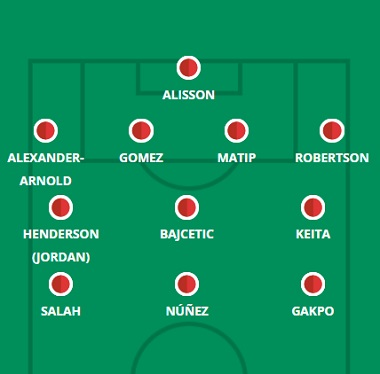
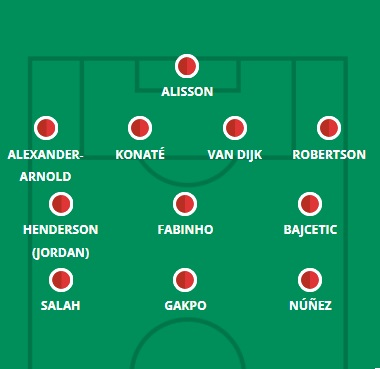
5-20

diff --git a/leeds.html b/leeds.html
@@ -63,15 +63,15 @@
     <hgroup>
         <h1> Provável Escalação</h1>
         <h2 class="direita"> por FabioVascão </h2>
-        <h3 class="direita"> Atualizado em 10/Fevereiro/2023 </h3>
+        <h3 class="direita"> Atualizado em 03/Março/2023 </h3>
     </hgroup>
 
     <div class="selecao"><p><b><img src="images/logos/leeds.png" width="100rem" height="100rem"/> Leeds</b></p></div>
        
     <div class="escalacao">
         <div class="topo">
-            <h2 class="titulo">Ultimas Notícias</h2> <h4><p> Pascal Struijk (suspensão) se juntou a Rodrigo Moreno (tornozelo) e Stuart Dallas (joelho) nas laterais, enquanto os comentários do gerente interino Michael Skubala sobre as "lesões de longa duração" permanecerem as mesmas sugerem Archie Gray (tornozelo) e Adam Forshaw (quadril ) permanecem fora. Liam Cooper (knock) e Marc Roca (knock) serão avaliados depois de perder o jogo reverso contra o Manchester United, enquanto Luis Sinisterra (músculo) não está muito ferido depois de sair mancando do jogo no meio da semana, mas ainda é uma dúvida significativa para domingo . Junior Firpo impressionou como substituto em Old Trafford e será necessário como lateral-esquerdo se Cooper se juntar a Struijk nas laterais (o versátil Max Wober continua no meio-campo), enquanto Brenden Aaronson e Crysencio Summerville lutarão para substituir Sinisterra fora de largura; foi o primeiro que saiu do banco para substituir o colombiano na quarta-feira. Há uma chance de Georginio Rutter conseguir uma saída no meio se Patrick Bamford for considerado muito arriscado para começar dois jogos em quatro dias, embora Bamford tenha pelo menos conseguido respirar depois de uma hora no derby dos Roses. Sam Greenwood ou Roca (se adequado) também podem entrar para fazer um meio-campo de três homens, caso Skubala queira proceder com um pouco mais de cautela desta vez.</p></h4><br>
-            <h4><strong>Dúvidas:</strong> Dallas, Struijk, Gray (Archie), Rodrigo, Cooper, Perkins, Roca, Sinisterra e Forshaw.</h4>
+            <h2 class="titulo">Ultimas Notícias</h2> <h4><p> O novo chefe do Leeds, Javi Gracia, mais uma vez rebateu uma pergunta sobre a situação atual da lesão em sua coletiva de imprensa pré-jogo, então estamos no escuro quanto ao condicionamento físico mais recente do clube. Rodrigo Moreno (tornozelo), Adam Forshaw (quadril), Stuart Dallas (joelho) e Luis Sinisterra (músculo) estão fora de casa, enquanto Pascal Struijk era esperado de volta há duas semanas após observar o protocolo de concussão, mas reclamou de “nebulosidade” em uma sessão de treinamento e não foi visto desde então. Liam Cooper e Max Wober também estiveram ausentes da equipe da rodada na eliminatória da copa no meio da semana contra o Fulham, embora possa ser que Wober tenha descansado por precaução para evitar o agravamento de uma lesão no ombro que o deixou em dúvida para a 25ª rodada. Vimos um 4-2-3-1 de Gracia em sua primeira partida no comando contra o Southampton no fim de semana passado, enquanto a viagem para o Fulham na terça-feira testemunhou uma mudança para um 4-4-3. Existe a possibilidade de não vermos nenhuma dessas configurações, no entanto, com Gracia - reconhecidamente ao responder a uma pergunta de um repórter - dizendo que jogar com dois atacantes no topo era uma "opção real". Foi a exibição encorajadora de Georginio Rutter em Craven Cottage que gerou a pergunta do jornalista, com a contratação de janeiro e Patrick Bamford até agora tendo que dividir o tempo de jogo em vez de começar lado a lado. Gracia disse que Rutter é uma opção quando há um sistema de um atacante, mas admitiu que viu a posição ideal do atacante francês como um "segundo atacante". Marc Roca foi trazido para a casa das máquinas no meio da semana, mas provavelmente seria ele quem abriria caminho para acomodar uma configuração mais ofensiva, com Crysencio Summerville e Brenden Aaronson também pressionando pela inclusão.</p></h4><br>
+            <h4><strong>Dúvidas:</strong> Dallas, Struijk, Rodrigo, Sinisterra e Forshaw.</h4>
         </div>
         <aside>
             <figure>

diff --git a/united.html b/united.html
@@ -63,15 +63,15 @@
     <hgroup>
         <h1> Provável Escalação</h1>
         <h2 class="direita"> por FabioVascão </h2>
-        <h3 class="direita"> Atualizado em 10/Fevereiro/2023 </h3>
+        <h3 class="direita"> Atualizado em 03/Março/2023 </h3>
     </hgroup>
 
     <div class="selecao"><p><b><img src="images/logos/manchester-united.png" width="100rem" height="100rem"/> Manchester United</b></p></div>
        
     <div class="escalacao">
         <div class="topo">
-            <h2 class="titulo">Ultimas Notícias</h2> <h4><p> Não temos certeza se teremos notícias de Erik ten Hag antes do prazo final da Gameweek 23, com seu tempo anunciado na lista de coletiva de imprensa pré-jogo passando sem nenhuma reportagem. Sabemos que Christian Eriksen (tornozelo), Donny van de Beek (joelho) e Casemiro (suspenso) permanecem de fora, embora pareça improvável que Scott McTominay (problema não especificado) se recupere para a rápida partida de volta em Elland Road. A disponibilidade de Anthony Martial (quadril) e Antony (perna) para a Rodada 23 também é desconhecida depois que ten Hag excluiu a dupla do confronto no meio da semana contra o Leeds, uma partida que Aaron Wan-Bissaka perdeu devido a “doença”. O United ficará sem corpos se nenhum desses contingentes retornar, mas dez Hag ainda tem opções disponíveis para ele se quiser agitar as coisas, com sua reformulação tática no meio da semana de mover Marcus Rashford para o topo às custas do ineficaz Wout Weghorst certamente algo na frente de sua mente. Jadon Sancho está suficientemente impressionado para sugerir que voltará ao XI titular no domingo, deixando Alejandro Garnacho e Facundo Pellistri brigando pelo outro meio-campo se Antony ou Martial não estiverem disponíveis. O mais defensivo Wan-Bissaka também pode retornar no lugar de Diogo Dalot se se recuperar de uma doença, com Wilfried Gnonto provando ser um punhado no jogo reverso de quarta-feira. Vimos o mal do Jekyll-e-Hyde Fred em Old Trafford, mas exceto por empurrar Victor Lindelof para o meio-campo (algo que Ten Hag discutiu anteriormente e como aconteceu nos estágios finais no meio da semana), não há muita competição para o brasileiro atualmente.</p></h4><br>
-            <h4><strong>Dúvidas:</strong> Van de Beek, Eriksen, Antony, Martial, Wan-Bissaka, Casemiro e McTominay.</h4>
+            <h2 class="titulo">Ultimas Notícias</h2> <h4><p> Christian Eriksen (tornozelo) e Donny van de Beek (joelho) permanecem de fora, enquanto o jogo contra o Liverpool pode acontecer muito cedo para Anthony Martial (quadril). Em uma notícia mais positiva, Erik ten Hag disse em seu presser pré-jogo que Jadon Sancho (doença) e Luke Shaw (lesão leve) devem se recuperar, com a dupla perdendo a vitória da copa no meio da semana sobre o West Ham. Depois de alguns minutos de gestão na FA Cup, é muito provável que vejamos um time semelhante ao que foi enviado em Wembley no último domingo. O Aaron Wan-Bissaka, mais seguro defensivamente, entrando no lugar de Diogo Dalot, pode ser uma alteração na lateral-direita, com o último lutando contra o Newcastle e depois parte de uma defesa de segunda linha contra os Hammers. Alguns ajustes mais avançados (Marcel Sabitzer no lugar de Fred, Sancho ou Alejandro Garnacho no lugar de Antony ou Wout Weghorst) são possíveis, mas o dinheiro inteligente estaria nessa e única mudança mencionada na lateral. Tyrell Malacia ficará, é claro, de prontidão se Shaw não se recuperar a tempo.</p></h4><br>
+            <h4><strong>Dúvidas:</strong> Van de Beek, Eriksen, Martial, Sancho e Shaw.</h4>
         </div>
         <aside>
             <figure>

diff --git a/liverpool.html b/liverpool.html
@@ -63,15 +63,15 @@
     <hgroup>
         <h1> Provável Escalação</h1>
         <h2 class="direita"> por FabioVascão </h2>
-        <h3 class="direita"> Atualizado em 10/Fevereiro/2023 </h3>
+        <h3 class="direita"> Atualizado em 03/Março/2023 </h3>
     </hgroup>
 
     <div class="selecao"><p><b><img src="images/logos/liverpool.png" width="100rem" height="100rem"/> Liverpool</b></p></div>
        
     <div class="escalacao">
         <div class="topo">
-            <h2 class="titulo">Ultimas Notícias</h2> <h4><p> Luis Diaz (joelho) e Ibrahima Konate (músculo) permanecem afastados e Thiago Alcantara (quadril) está em dúvida depois de não treinar durante toda a semana, mas o Liverpool recebeu um grande impulso com o retorno aos treinos de Virgil van Dijk (coxa), Arthur Melo (músculo), Diogo Jota (coxa) e Roberto Firmino (panturrilha). Jota parece o mais próximo de uma participação e van Dijk o menos provável de se envolver no derby de Merseyside com base nos comentários pré-jogo de Jurgen Klopp, mas qualquer que seja a combinação de estrelas em forma novamente no elenco em Anfield, seria um choque se algum deles eles são tudo menos substitutos. As perspectivas de Fabinho como titular também estão em questão, apesar de seu retorno aos treinos após doença, com Stefan Bajcetic recebendo elogios de seu técnico recentemente e novamente impressionando na derrota para o Wolves. Jordan Henderson pode conseguir um recall aqui se Thiago não conseguir se recuperar, com Harvey Elliott, James Milner e Curtis Jones como alternativas na sala de máquinas - provavelmente nessa ordem de probabilidade. Elliott teve o azar de perder seu lugar no primeiro lugar em Molineux e estará pressionando para ser incluído entre os três primeiros, com o lugar de Cody Gakpo talvez mais em disputa depois de outra exibição mais ou menos. Na defesa, não se surpreenda se Nat Phillips entrar em disputa no meio-campo, dada a probabilidade de Everton, de Sean Dyche, encher a área da casa com cruzamentos e bolas altas.</p></h4><br>
-            <h4><strong>Dúvidas:</strong> Firmino, Díaz, Arthur, Diogo Jota, Van Dijk, Konate, Fabinho e Alcantara.</h4>
+            <h2 class="titulo">Ultimas Notícias</h2> <h4><p> Joe Gomez (músculo), Thiago Alcantara (quadril), Luis Diaz (joelho) e Calvin Ramsay (joelho) permanecem de fora, enquanto Naby Keita não foi informado depois que ele ficou de fora da vitória no meio da semana sobre o Wolverhampton Wanderers com uma batida . Provavelmente veremos algumas mudanças, apesar da vitória sobre o Wolves na quarta-feira, embora o recém-recuperado Ibrahima Konate pareça mais seguro ao lado de Virgil van Dijk do que Joel Matip tem feito ultimamente e deve manter seu lugar. Andrew Robertson, Jordan Henderson e Cody Gakpo são os três Reds que parecem mais propensos a retornar ao XI inicial, com largadas no meio da semana para Kostas Tsimikas e Harvey Elliott provavelmente tanto sobre gerenciamento de minutos após um mês agitado. É uma convocação mais apertada, onde Diogo Jota foi titular nas duas últimas partidas do campeonato, mas Gakpo impressionou no banco de reservas em Anfield no meio da semana e a linha de frente Salah-Darwin-Gakpo tem mostrado sinais de progresso ultimamente. Roberto Firmino ainda não foi substituto após seu recente retorno de lesão e sexta-feira trouxe a notícia de que deixará o clube no final da temporada, quando seu contrato expirar.</p></h4><br>
+            <h4><strong>Dúvidas:</strong> Díaz, Arthur, Gomez, Keita, Ramsay e Alcantara.</h4>
         </div>
         <aside>
             <figure>

diff --git a/leicester.html b/leicester.html
@@ -63,15 +63,15 @@
     <hgroup>
         <h1> Provável Escalação</h1>
         <h2 class="direita"> por FabioVascão </h2>
-        <h3 class="direita"> Atualizado em 10/Fevereiro/2023 </h3>
+        <h3 class="direita"> Atualizado em 03/Março/2023 </h3>
     </hgroup>
 
     <div class="selecao"><p><b><img src="images/logos/leicester.png" width="100rem" height="100rem"/> Leicester</b></p></div>
        
     <div class="escalacao">
         <div class="topo">
-            <h2 class="titulo">Ultimas Notícias</h2> <h4><p> James Justin (Aquiles) e Sammy Braybrooke (joelho) estão ausentes há muito tempo e Ryan Bertrand (joelho) continua sem condição física para o jogo, mas Wilfred Ndidi (problema pessoal) deve retornar neste fim de semana e há um retorno há muito esperado para Ricardo Pereira (Aquiles ), depois de ter participado de um amistoso no campo de treinamento na terça-feira. Jonny Evans (panturrilha) e Boubakary Soumaré (coxa) também voltaram a treinar esta semana: o primeiro será “avaliado” antes da partida do Spurs, enquanto Soumare parece mais provável de participar da 24ª rodada. com a mesma equipa, com os estreantes Tete e Victor Kristiansen particularmente excelentes nas Midlands. Se houver uma mudança, provavelmente será no meio do parque às custas de Youri Tielemans ou Kiernan Dewsbury-Hall; os Foxes pareciam um pouco suspeitos na retaguarda em Villa Park, então Ndidi ou Nampalys Mendy poderiam ser convocados para fornecer um pouco mais de segurança na frente dos quatro defensores. Rodgers falou sobre as credenciais de Kelechi Iheanacho para sugerir que ele pode vencer Patson Daka e Jamie Vardy novamente no topo, com esses dois atacantes prontos para se juntar a nomes como Pereira, Caglar Soyuncu e Dennis Praet no banco no sábado.</p></h4><br>
-            <h4><strong>Dúvidas:</strong> Braybrooke, Bertrand, Evans, Justin e Soumaré.</h4>
+            <h2 class="titulo">Ultimas Notícias</h2> <h4><p> Youri Tielemans (tornozelo) juntou-se a James Justin (Aquiles) e Sammy Braybrooke (joelho) na lista de lesionados, enquanto Ryan Bertrand (joelho) e Jonny Evans (coxa) ainda podem estar com falta de condicionamento físico. James Maddison (doença) "deveria" estar bem para enfrentar o Southampton neste fim de semana, de acordo com seu técnico, com o meio-campista também tendo que controlar uma coisinha no joelho recentemente. Agora são derrotas consecutivas para os Foxes na liga, mas eles acabaram de enfrentar dois dos três primeiros times e a segunda seqüência não impressionou muito ao cair para uma derrota na copa no meio da semana para o Blackburn Rovers, com Daniel Amartey , Luke Thomas, Boubakary Soumare e Jamie Vardy apresentando exibições ruins. Dennis Praet provavelmente terá que abrir caminho para acomodar o retorno de Maddison se o talismã do Leicester estiver em forma, enquanto o mais progressista Nampalys Mendy pode entrar no lugar de Wilfred Ndidi, já que o Southampton, o último da tabela, e não o líder da liga, o Arsenal, está fornecendo a oposição. Rodgers pode dar aos três jogadores de ataque em torno de Maddison outra chance de impressionar em um jogo em que as chances provavelmente serão mais próximas, enquanto os quatro defensores permaneceram inalterados nas últimas quatro semanas de jogo desde que os recém-chegados Victor Kristiansen e Harry Souttar fizeram suas estreias.</p></h4><br>
+            <h4><strong>Dúvidas:</strong> Braybrooke, Bertrand, Evans, Justin, Tielemans e Maddison.</h4>
         </div>
         <aside>
             <figure>

diff --git a/newcastle.html b/newcastle.html
@@ -63,15 +63,15 @@
     <hgroup>
         <h1> Provável Escalação</h1>
         <h2 class="direita"> por FabioVascão </h2>
-        <h3 class="direita"> Atualizado em 10/Fevereiro/2023 </h3>
+        <h3 class="direita"> Atualizado em 03/Março/2023 </h3>
     </hgroup>
 
     <div class="selecao"><p><b><img src="images/logos/newcastle-united.png" width="100rem" height="100rem"/> Newcastle</b></p></div>
        
     <div class="escalacao">
         <div class="topo">
-            <h2 class="titulo">Ultimas Notícias</h2> <h4><p> Matt Targett (calcanhar), Javier Manquillo (joelho) e Emil Krafth (joelho) permanecem de fora, assim como o castigado Bruno Guimarães. Alexander Isak está de volta ao time, no entanto, tendo ficado de fora da Gameweek 22 devido aos protocolos de concussão. O XI dos Magpies permaneceu praticamente inalterado nas últimas dez semanas de jogo, exceto uma ou duas ausências forçadas, então o único ponto de interrogação menor provavelmente será sobre quem substitui Guimarães. O esperado aconteceu na semana passada, quando vimos Joelinton recuar para o meio-campo e Allan Saint-Maximin entrar no flanco esquerdo, mas a exibição errática do francês, além de uma participação brilhante do novo contratado Anthony Gordon, deixou algumas dúvidas sobre quem levaria para o campo em Bournemouth. No entanto, Eddie Howe parecia apoiar Saint-Maximin em sua pressão pré-jogo, dizendo que o ala se beneficia de "uma sequência consistente de jogos" e tem "uma janela e uma oportunidade para impressionar".</p></h4><br>
-            <h4><strong>Dúvidas:</strong> Krafth, Manquillo, Targett e Bruno Guimarães.</h4>
+            <h2 class="titulo">Ultimas Notícias</h2> <h4><p> Bruno Guimarães está em boa forma, apesar de ter saído mancando da final da EFL Cup no fim de semana passado devido a uma lesão no tornozelo. Nick Pope também está novamente disponível após suspensão, tendo sido suspenso para a deslocação a Wembley, pelo que deixa apenas Emil Krafth (joelho) de fora para a deslocação ao terreno do Manchester City. Não há muitas dúvidas sobre pelo menos nove dos titulares do Etihad, sendo os principais dilemas da seleção quem lidera a linha e quem alinha na lateral esquerda. A queda de forma pós-reinício de Callum Wilson pode abrir caminho para uma convocação de Alexander Isak no topo, com o primeiro recebendo o aceno na final da Copa da Liga, mas novamente lisonjeiro para enganar. Allan Saint-Maximin tem estado em melhor posição, mas Eddie Howe pode adotar uma abordagem defensiva mais "cavalos por curso" nos campeões em título, com Joelinton se juntando aos três primeiros e Joe Willock trazido para o meio-campo. Anthony Gordon é outra opção ampla e Howe realmente deu a entender no presser de sexta-feira que o ex-jogador do Everton, assim como Isak, teria mais partidas na disputa.</p></h4><br>
+            <h4><strong>Dúvidas:</strong> Krafth.</h4>
         </div>
         <aside>
             <figure>

diff --git a/index.html b/index.html
@@ -34,14 +34,14 @@
   <main>
     <div class="principal">
       <hgroup>
-        <h1> Escalação da 23° Rodada do Fantasy da Premier League </h1>
+        <h1> Escalação da 26° Rodada do Fantasy da Premier League </h1>
         <h2> por FabioVascão </h2>
-        <h3> Atualizado em 10/Fevereiro/2023 </h3>
+        <h3> Atualizado em 03/Março/2023 </h3>
       </hgroup>
-        <h2 class="titulo">  23° Rodada da Premier League - Time do Canal </h2>       
-        <img src="images/fixos/time23rodada.jpg" alt="Escalação da 23° Rodada do Fantasy da Premier League"/>   
-        <h4><p><strong>Escalação:</strong> Pope, Trippier, Akanji, Shaw, Odegaard, Saka, Rashford, Mahrez(VC), Haaland(C), Nketiah e Kane.</p></h4><br>
-        <h4><p><strong>Banco:</strong> Ward, Almirón, Estupiñán e Wan-Bissaka.</p></h4><br>
+        <h2 class="titulo">  26° Rodada da Premier League - Time do Canal </h2>       
+        <img src="images/fixos/time26rodada.jpg" alt="Escalação da 26° Rodada do Fantasy da Premier League"/>   
+        <h4><p><strong>Escalação:</strong> Ward, Tarkowski, Estupiñán, Akanji, Odegaard, Saka, Rashford, Mahrez, Haaland(C), Watkins(VC) e Kane.</p></h4><br>
+        <h4><p><strong>Banco:</strong> Alisson, Shaw, Trippier e Almirón.</p></h4><br>
         
         <h2 class="titulo"> Dicas para 23° Rodada </h2>  
         <div class="video"> 

diff --git a/noticias.html b/noticias.html
@@ -35,6 +35,16 @@
     <div class="principal">
 
       <hgroup>
+        <h1> Escalação da 26° Rodada do Fantasy da Premier League </h1>
+        <h2> por FabioVascão </h2>
+        <h3> Atualizado em 03/Março/2023 </h3>
+      </hgroup>
+        <h2 class="titulo">  26° Rodada da Premier League - Time do Canal </h2>       
+        <img src="images/fixos/time23rodada.jpg" alt="Escalação da 26° Rodada do Fantasy da Premier League"/>   
+        <h4><p><strong>Escalação:</strong> Ward, Tarkowski, Estupiñán, Akanji, Odegaard, Saka, Rashford, Mahrez, Haaland(C), Watkins(VC) e Kane.</p></h4><br>
+        <h4><p><strong>Banco:</strong> Alisson, Shaw, Trippier e Almirón.</p></h4><br>
+
+      <hgroup>
         <h1> Escalação da 22° Rodada do Fantasy da Premier League </h1>
         <h2> por FabioVascão </h2>
         <h3> Atualizado em 10/Fevereiro/2023 </h3>
